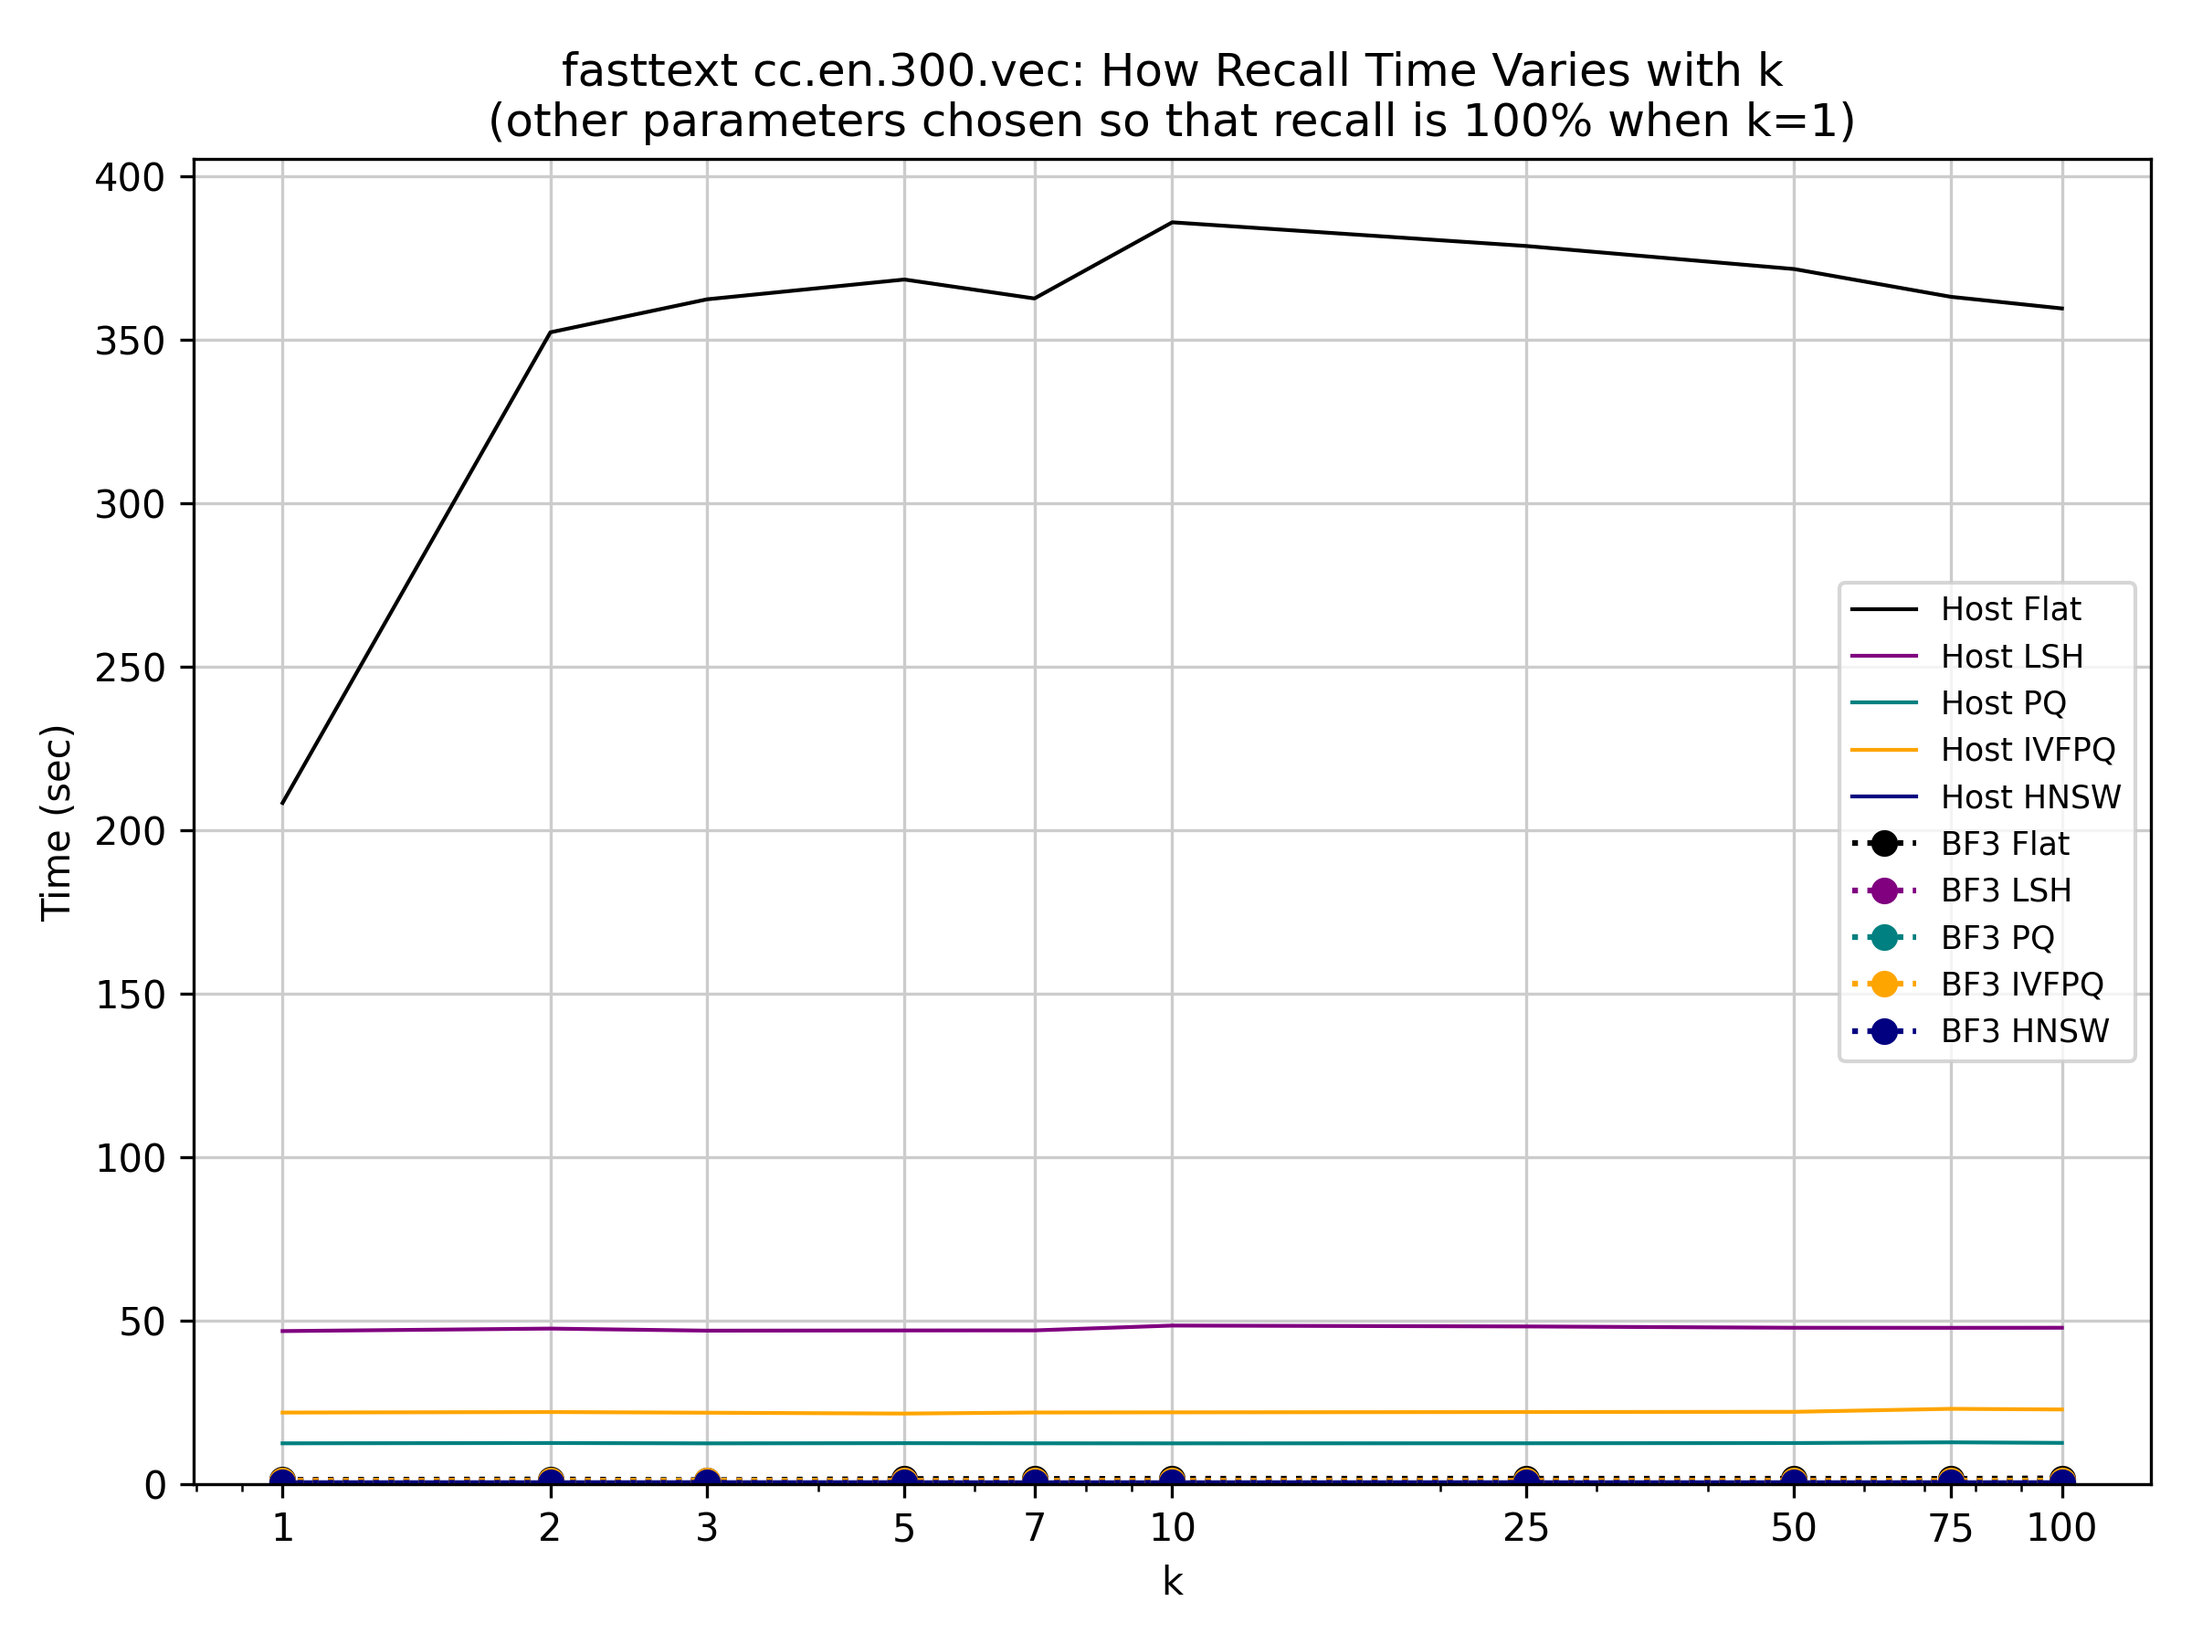
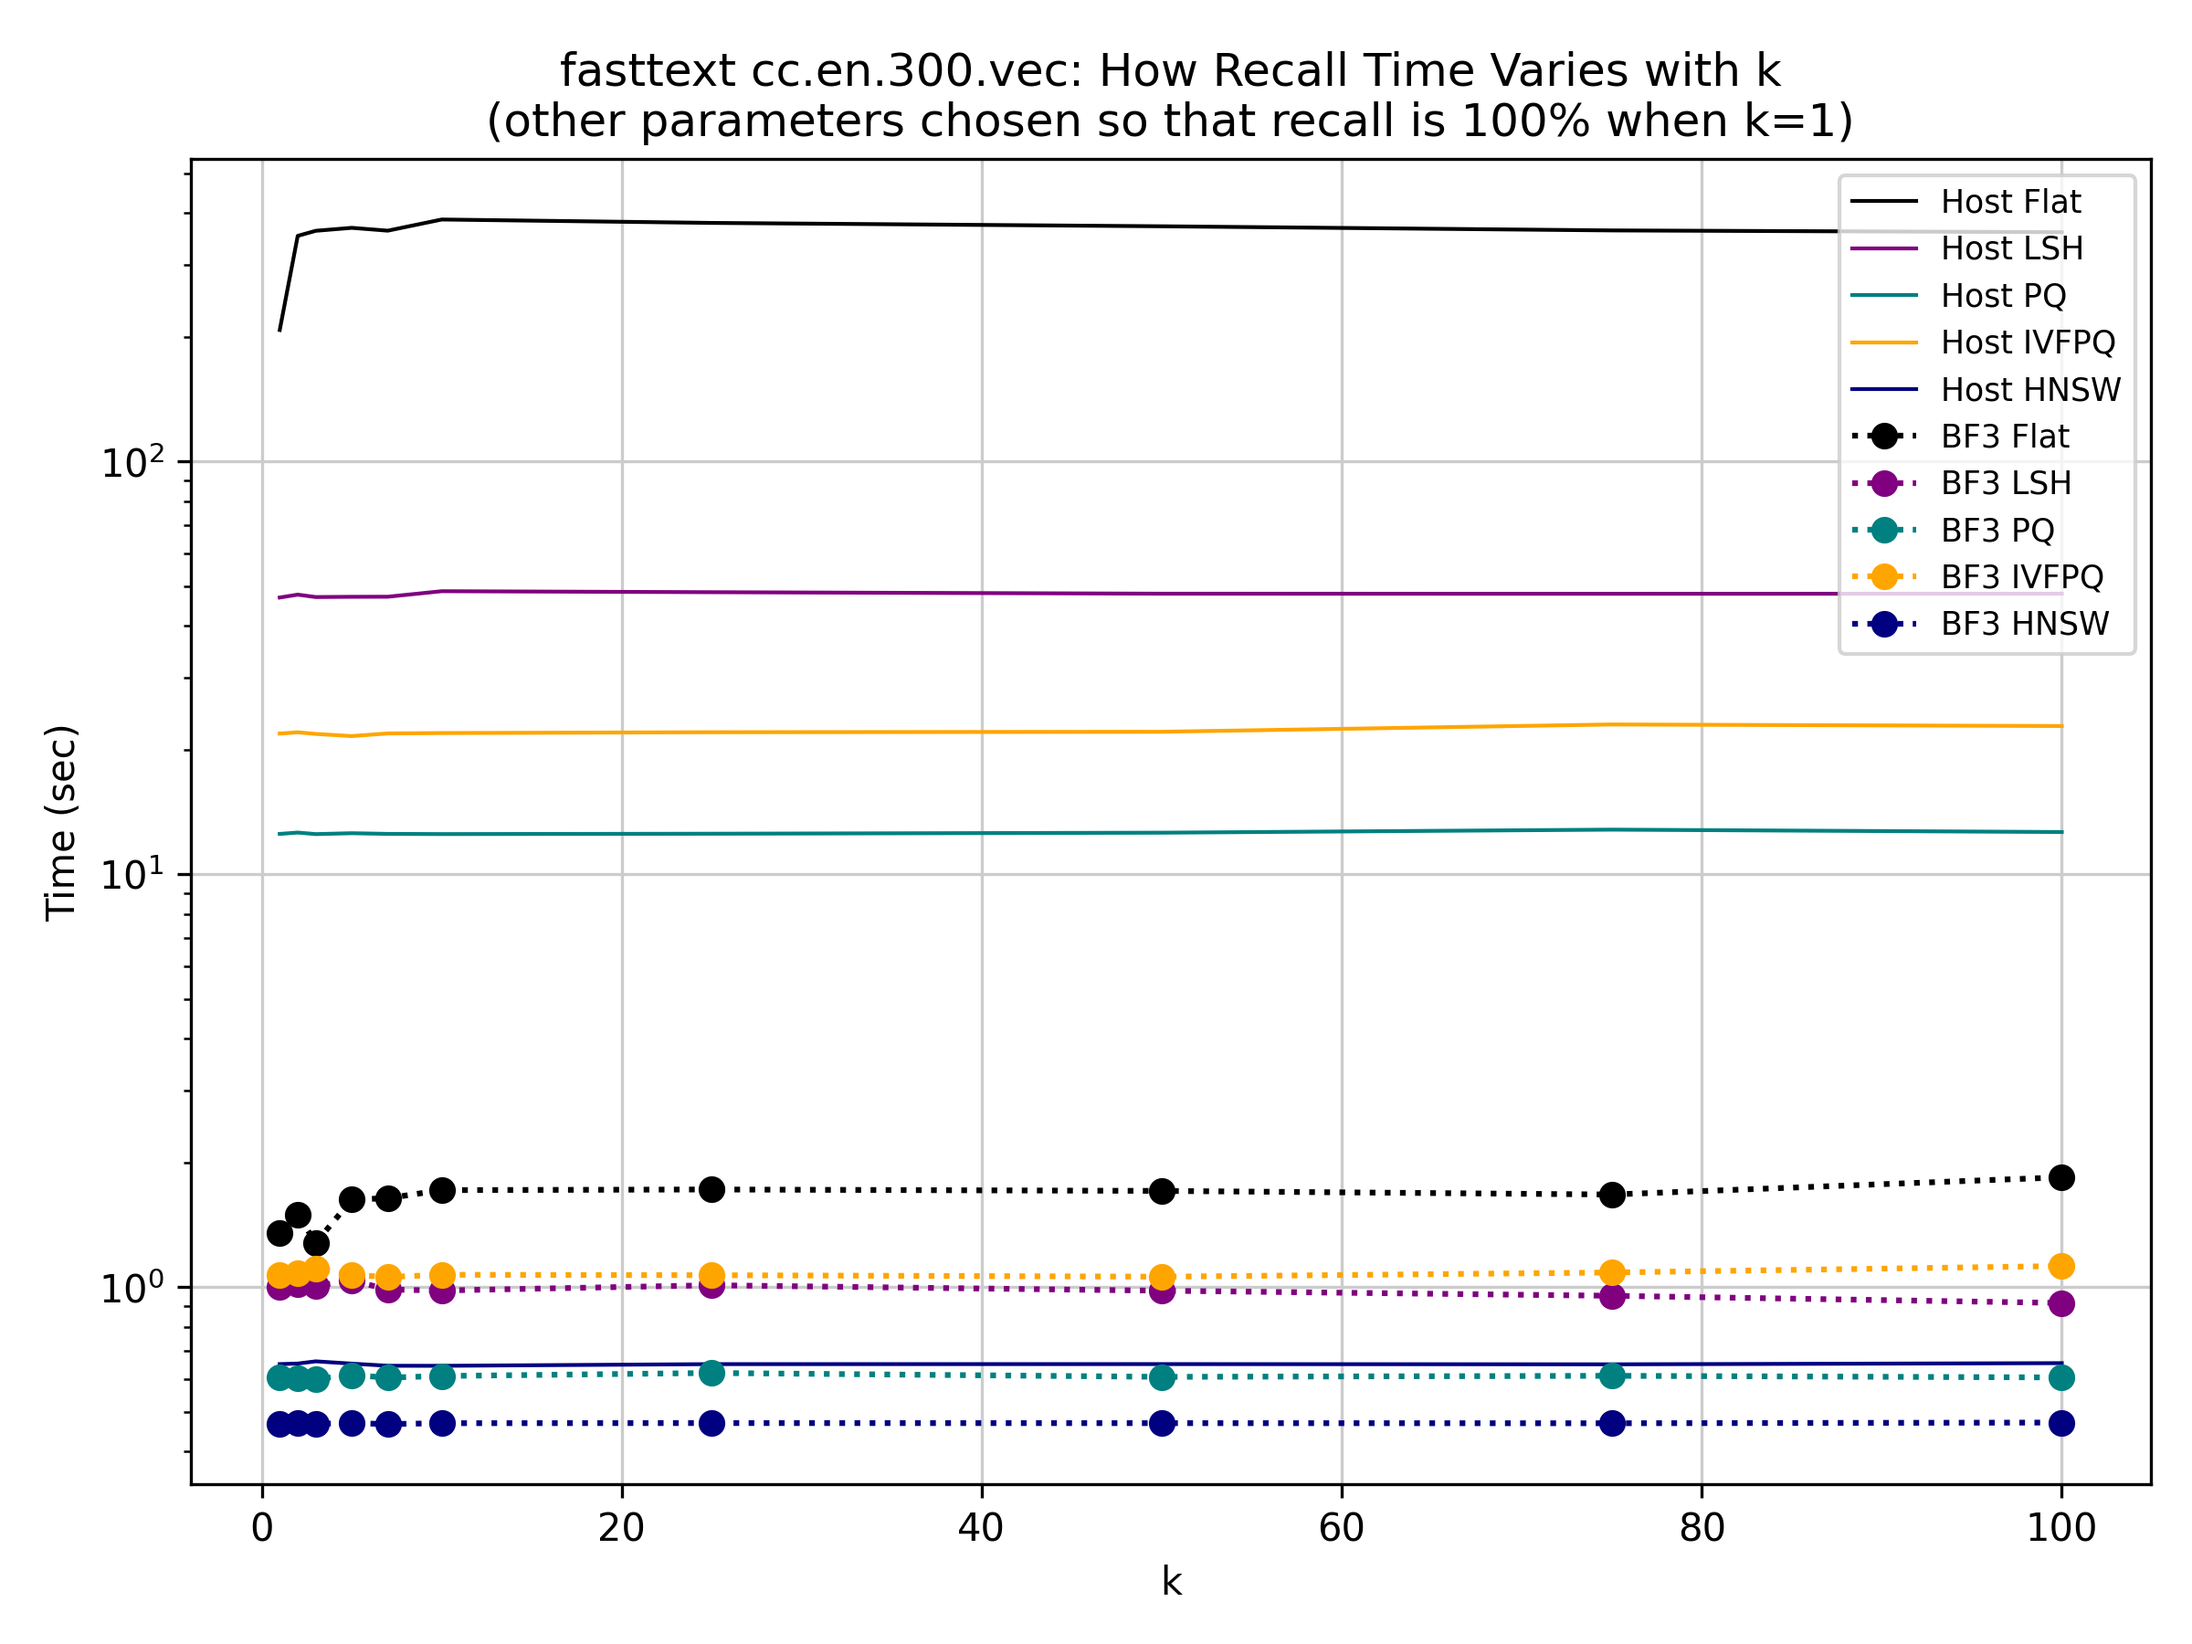
added log graph

diff --git a/vector_similarity_test/graph_recall_vs_k_fasttext.py b/vector_similarity_test/graph_recall_vs_k_fasttext.py
@@ -99,21 +99,16 @@ plt.plot(k, fast_host_pq_time    , color='teal', linewidth=1.0)
 plt.plot(k, fast_host_ivfpq_time , color='orange',linewidth=1.0)
 plt.plot(k, fast_host_hnsw_time  , color='navy', linewidth=1.0)
 
-plt.plot(k, fast_bf3_bf_time     , 'o:', color='k')     # optional BF3 markers
+plt.plot(k, fast_bf3_bf_time     , 'o:', color='k')
 plt.plot(k, fast_bf3_lsh_time    , 'o:', color='purple')
 plt.plot(k, fast_bf3_pq_time     , 'o:', color='teal')
 plt.plot(k, fast_bf3_ivfpq_time  , 'o:', color='orange')
 plt.plot(k, fast_bf3_hnsw_time   , 'o:', color='navy')
 
-plt.xscale('log')
-ax = plt.gca()
-ax.set_xticks(k)
-ax.get_xaxis().set_major_formatter(ticker.ScalarFormatter())
-ax.get_xaxis().set_minor_formatter(ticker.NullFormatter())
+plt.yscale('log')
 
 plt.ylabel("Time (sec)")
 plt.xlabel("k")
-plt.ylim(bottom=0)   # you had this in the original
 plt.legend(["Host Flat","Host LSH","Host PQ","Host IVFPQ","Host HNSW",
             "BF3 Flat","BF3 LSH","BF3 PQ","BF3 IVFPQ","BF3 HNSW"], fontsize='small')
 plt.tight_layout()
